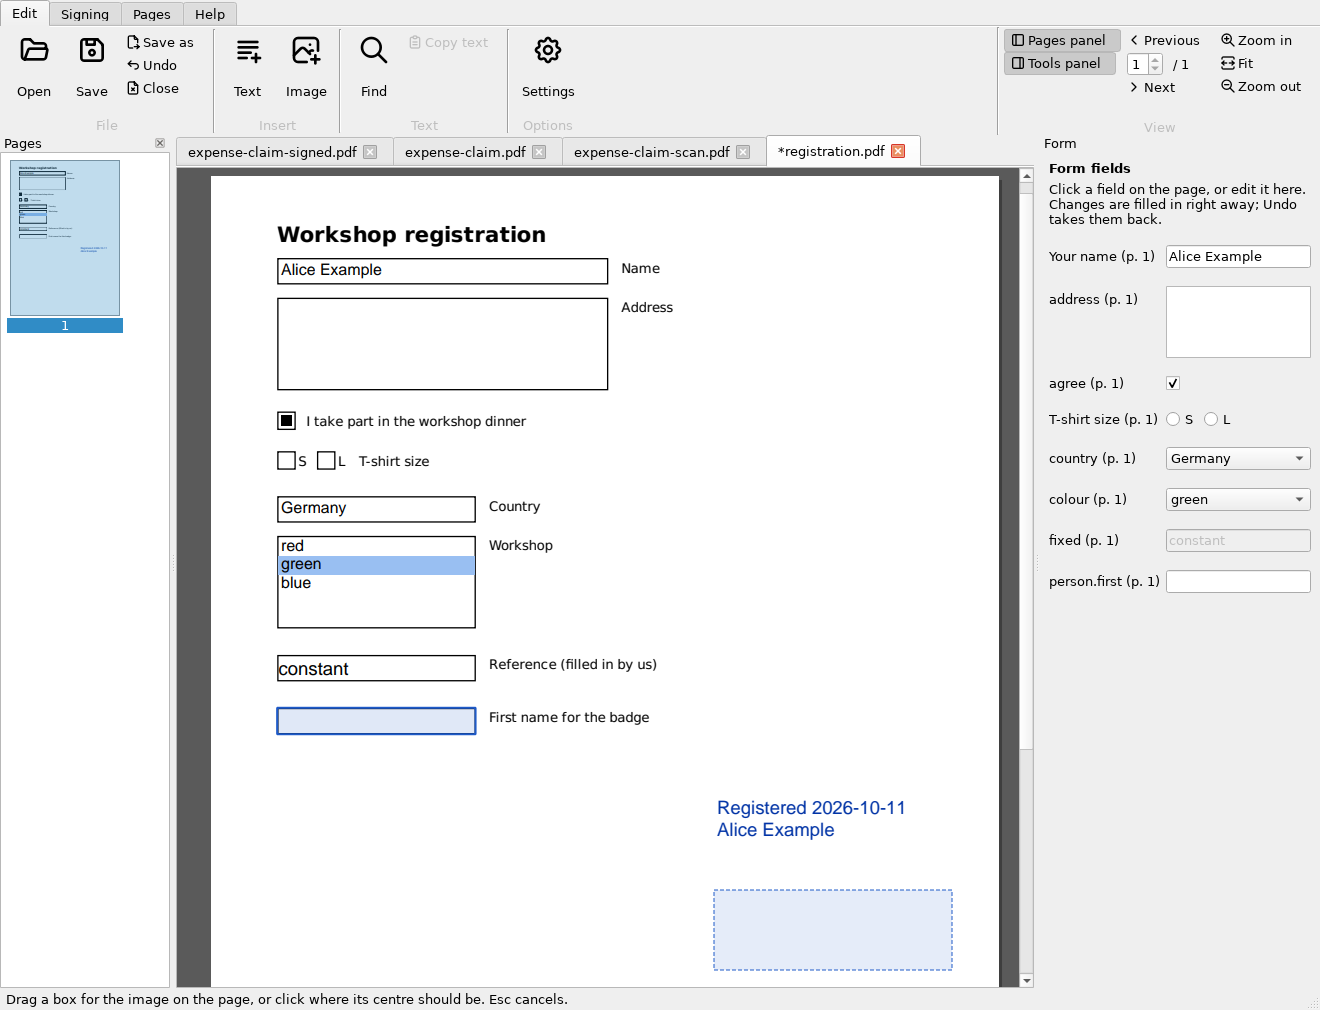
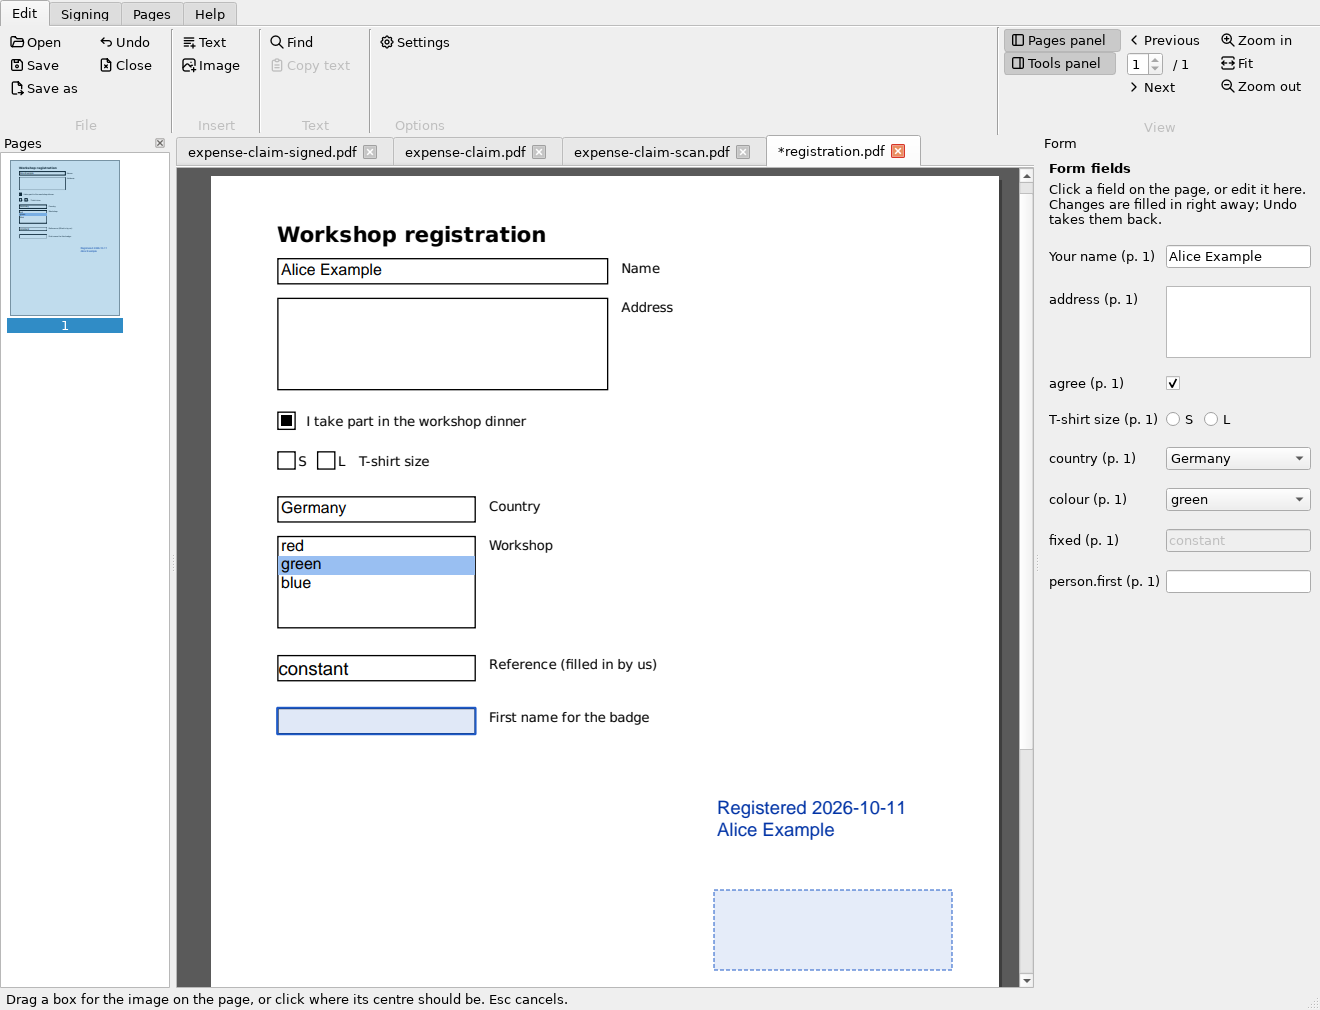
Ribbon: small buttons throughout
Every ribbon button is now small, text beside the icon, in columns of up
to three, instead of a mix of large and small ones; small is the
default of RibbonGroup.add. The tabs get much narrower (Pages tab
1125 -> 775 px in German). Clipboard in the usual order: Copy, Cut, Paste.

Changed region(s): [[0.0, 0.0307, 0.2485, 0.0921], [0.2795, 0.0307, 0.3417, 0.0614], [0.4038, 0.0307, 0.4348, 0.0614]]

diff --git a/src/slim_pdf/gui/app.py b/src/slim_pdf/gui/app.py
@@ -451,15 +451,15 @@ class MainWindow(QMainWindow):
         g = edit.group(_("File"))
         g.add(self.open_act)
         g.add(self.save_act)
-        g.add(self.save_as_act, large=False)
-        g.add(self.undo_act, large=False)
-        g.add(self.close_act, large=False)
+        g.add(self.save_as_act)
+        g.add(self.undo_act)
+        g.add(self.close_act)
         g = edit.group(_("Insert"))
         g.add(self.insert_text_act)
         g.add(self.insert_image_act)
         g = edit.group(_("Text"))
         g.add(self.find_act)
-        g.add(self.copy_text_act, large=False)
+        g.add(self.copy_text_act)
         g = edit.group(_("Options"))
         g.add(self.settings_act)
 
@@ -467,7 +467,7 @@ class MainWindow(QMainWindow):
         signing = rb.tab(_("Signing"))
         g = signing.group(_("Sign"))
         g.add(self.sign_act)
-        g.add(self.clear_act, large=False)
+        g.add(self.clear_act)
         # the signature's settings as a little form, so each says what it is
         g = signing.group(_("Signature"))
         form = QWidget()
@@ -487,7 +487,7 @@ class MainWindow(QMainWindow):
         g.add_widget(form)
         g = signing.group(_("Signatures"))
         g.add(self.recheck_act)
-        g.add(self.details_act, large=False)
+        g.add(self.details_act)
 
         pages_tab = rb.tab(_("Pages"))
         g = pages_tab.group(_("Rotate"))
@@ -499,12 +499,12 @@ class MainWindow(QMainWindow):
         g = pages_tab.group(_("Delete"))
         g.add(self.delete_pages_act)
         g = pages_tab.group(_("Clipboard"))
+        g.add(self.copy_pages_act)
+        g.add(self.cut_pages_act)
         g.add(self.paste_pages_act)
-        g.add(self.copy_pages_act, large=False)
-        g.add(self.cut_pages_act, large=False)
         g = pages_tab.group(_("Text recognition"))
         g.add(self.ocr_act)
-        g.add(self.ocr_all_act, large=False)
+        g.add(self.ocr_all_act)
 
         help_tab = rb.tab(_("Help"))
         g = help_tab.group(_("Help"))

diff --git a/src/slim_pdf/gui/ribbon.py b/src/slim_pdf/gui/ribbon.py
@@ -77,8 +77,8 @@ CHECKED_STYLE = ("QToolButton { padding: 1px 3px; border: 1px solid transparent;
 
 
 class RibbonGroup(QFrame):
-    """Buttons in a row (large) or stacked in columns of three (small),
-    with the group's name underneath."""
+    """Small buttons (text beside the icon) stacked in columns of three, or
+    large ones (text under it) in a row, with the group's name underneath."""
 
     def __init__(self, title: str):
         super().__init__()
@@ -95,7 +95,7 @@ class RibbonGroup(QFrame):
         outer.addWidget(self.title)
         self._column: QVBoxLayout | None = None
 
-    def add(self, action: QAction, large: bool = True) -> QToolButton:
+    def add(self, action: QAction, large: bool = False) -> QToolButton:
         btn = QToolButton()
         btn.setDefaultAction(action)
         btn.setAutoRaise(True)

diff --git a/tests/test_gui_pages.py b/tests/test_gui_pages.py
@@ -223,7 +223,7 @@ def test_page_tools_are_in_the_context_menu(window, blank_pdf):
     pages_tab = window.ribbon.tab_page(2)
     buttons = [b.defaultAction().text() for b in pages_tab.findChildren(QtWidgets.QToolButton)]
     assert buttons == ["Rotate left", "Rotate right", "Crop…", "Uncrop", "Delete pages",
-                       "Paste pages", "Copy pages", "Cut pages", "Recognize text", "All pages"]
+                       "Copy pages", "Cut pages", "Paste pages", "Recognize text", "All pages"]
     assert window.rotate_left_act.shortcut().toString() == "Ctrl+L"  # shortcuts still work
 
 
